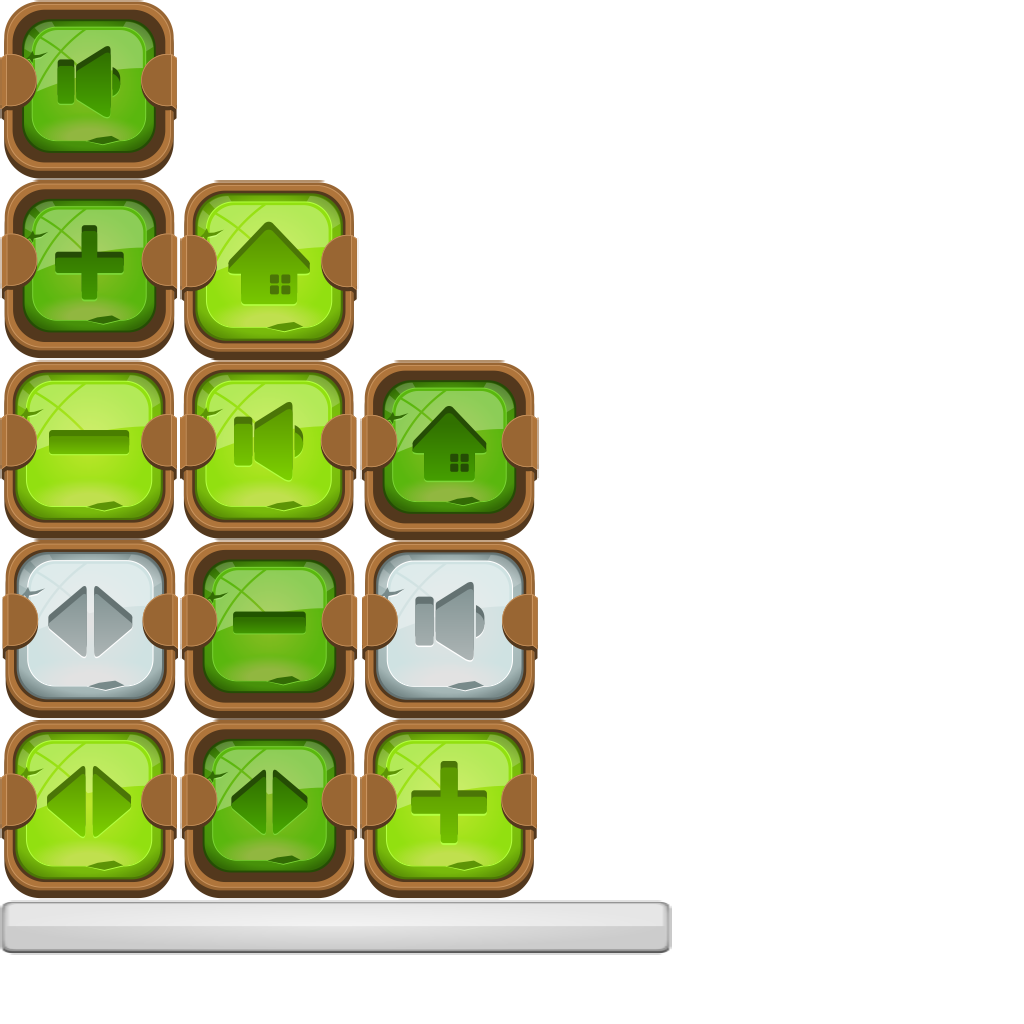
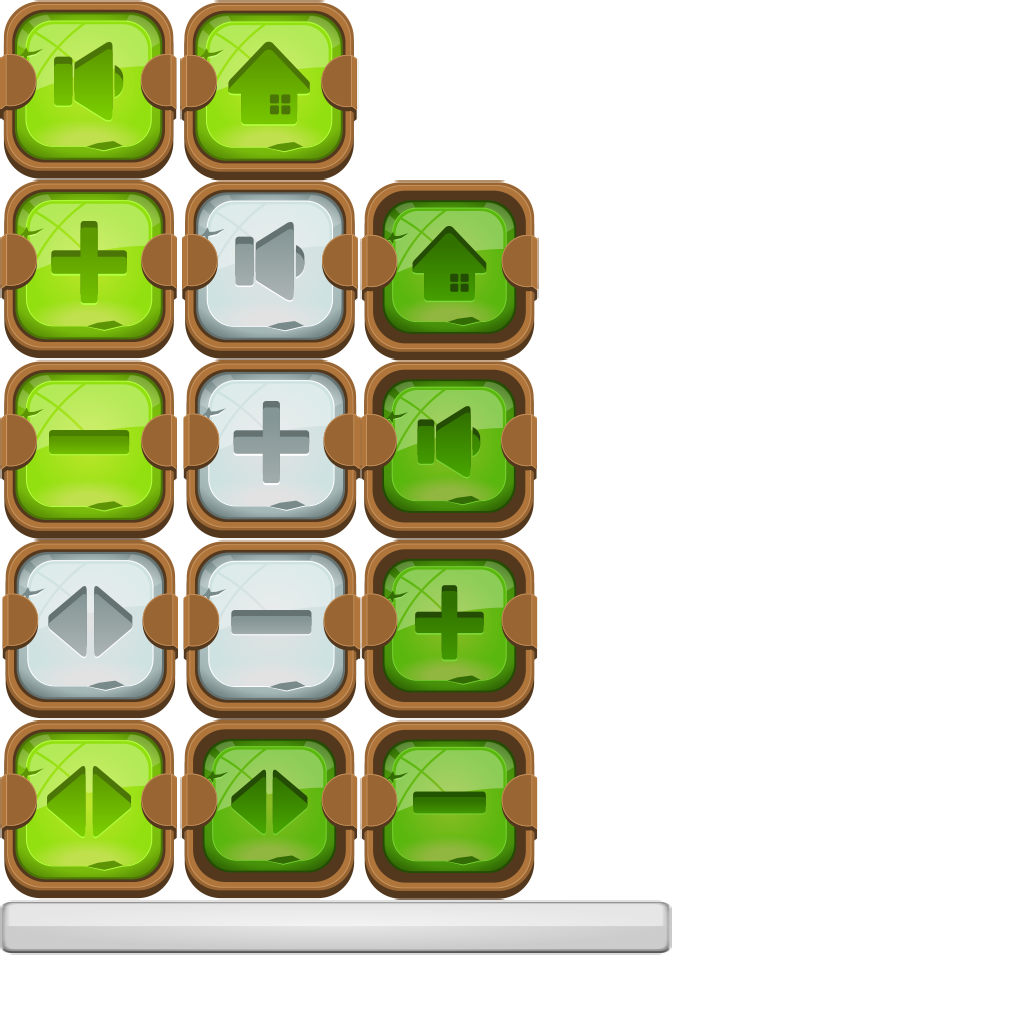
options menu enhaced

Changed region(s): [[0.0, 0.0, 0.5312, 0.875]]

diff --git a/BlockBoy/core/src/com/lpoo/blockboy/gui/OptionsScreen.java b/BlockBoy/core/src/com/lpoo/blockboy/gui/OptionsScreen.java
@@ -116,8 +116,8 @@ public class OptionsScreen implements Screen {
 
         homeBtn = new ImageButton(skin.getDrawable("homeBtn"),skin.getDrawable("homePressed"));
         volBtn = new ImageButton(skin.getDrawable("volBtn"),skin.getDrawable("volPressed"),skin.getDrawable("volCheck"));
-        plusBtn = new ImageButton(skin.getDrawable("plusBtn"),skin.getDrawable("plusPressed"));
-        minusBtn = new ImageButton(skin.getDrawable("minusBtn"),skin.getDrawable("minusPressed"));
+        plusBtn = new ImageButton(skin.getDrawable("plusBtn"),skin.getDrawable("plusPressed"),skin.getDrawable("plusCheck"));
+        minusBtn = new ImageButton(skin.getDrawable("minusBtn"),skin.getDrawable("minusPressed"),skin.getDrawable("minusCheck"));
 
         /*ProgressBar.ProgressBarStyle barStyle = new ProgressBar.ProgressBarStyle(skin.newDrawable("slider_bg", Color.DARK_GRAY), skin.getDrawable("knobBtn"));
         ProgressBar bar = new ProgressBar(0, 10, 1, false, barStyle);
@@ -125,17 +125,24 @@ public class OptionsScreen implements Screen {
         bar.setSize(290, bar.getPrefHeight());
         bar.setAnimateDuration(2);
         stage.addActor(bar);*/
-
-        Slider.SliderStyle sliderStyle = new Slider.SliderStyle(skin.getDrawable("slider_bg"),skin.getDrawable("knobBtn"));
-        sliderStyle.knobDown = skin.getDrawable("knobPressed");
-        sliderStyle.knobBefore = skin.newDrawable("slider_bg", Color.FOREST);
-        sliderStyle.knob.setMinHeight(60);
-        sliderStyle.knob.setMinWidth(60);
-        sliderStyle.knobDown.setMinHeight(65);
-        sliderStyle.knobDown.setMinWidth(65);
-        sliderStyle.background.setMinWidth(5*BlockBoy.VWIDTH/12 - volBtn.getWidth()/4);
-
-        volCtrl = new Slider(0,100,5,false,sliderStyle);
+        if (BlockBoy.mute) {
+            Slider.SliderStyle sliderStyle = new Slider.SliderStyle(skin.getDrawable("slider_bg"), skin.getDrawable("knobCheck"));
+            sliderStyle.knobBefore = skin.newDrawable("slider_bg", Color.LIGHT_GRAY);
+            sliderStyle.knob.setMinHeight(60);
+            sliderStyle.knob.setMinWidth(60);
+            sliderStyle.background.setMinWidth(5 * BlockBoy.VWIDTH / 12 - volBtn.getWidth() / 4);
+            volCtrl = new Slider(0,100,5,false,sliderStyle);
+        }else{
+            Slider.SliderStyle sliderStyle = new Slider.SliderStyle(skin.getDrawable("slider_bg"), skin.getDrawable("knobBtn"));
+            sliderStyle.knobDown = skin.getDrawable("knobPressed");
+            sliderStyle.knobBefore = skin.newDrawable("slider_bg", Color.FOREST);
+            sliderStyle.knob.setMinHeight(60);
+            sliderStyle.knob.setMinWidth(60);
+            sliderStyle.knobDown.setMinHeight(65);
+            sliderStyle.knobDown.setMinWidth(65);
+            sliderStyle.background.setMinWidth(5 * BlockBoy.VWIDTH / 12 - volBtn.getWidth() / 4);
+            volCtrl = new Slider(0,100,5,false,sliderStyle);
+        }
         volCtrl.setSize(4*BlockBoy.VWIDTH/12-30, 10);
         volCtrl.setPosition(6.5f*BlockBoy.VWIDTH/12-volCtrl.getWidth()/2+5, 3*BlockBoy.VHEIGHT/5-volCtrl.getHeight()/2);
         volCtrl.setValue(BlockBoy.volume);
@@ -152,6 +159,14 @@ public class OptionsScreen implements Screen {
 
         minusBtn.setSize(2*minusBtn.getWidth()/5,2*minusBtn.getHeight()/5);
         minusBtn.setPosition(4*BlockBoy.VWIDTH/12 - volBtn.getWidth()/2 + 10,3*BlockBoy.VHEIGHT/5 - volBtn.getHeight()/2);
+
+
+        volCtrl.setDisabled(BlockBoy.mute);
+        volBtn.setChecked(BlockBoy.mute);
+        plusBtn.setDisabled(BlockBoy.mute);
+        plusBtn.setChecked(BlockBoy.mute);
+        minusBtn.setDisabled(BlockBoy.mute);
+        minusBtn.setChecked(BlockBoy.mute);
 
         homeBtn.addListener(new InputListener(){
 
@@ -172,10 +187,9 @@ public class OptionsScreen implements Screen {
             }
 
             public void touchUp(InputEvent event, float x, float y, int pointer, int button){
-                if (BlockBoy.volume < 100) {
+                if (BlockBoy.volume < 100 && !BlockBoy.mute) {
                     BlockBoy.volume += 5;
                     volCtrl.setValue(BlockBoy.volume);
-                    Gdx.app.log("Debug: ", "" + BlockBoy.volume);
                 }
             }
         });
@@ -187,10 +201,9 @@ public class OptionsScreen implements Screen {
             }
 
             public void touchUp(InputEvent event, float x, float y, int pointer, int button){
-                if (BlockBoy.volume > 0) {
+                if (BlockBoy.volume > 0 && !BlockBoy.mute) {
                     BlockBoy.volume -= 5;
                     volCtrl.setValue(BlockBoy.volume);
-                    Gdx.app.log("Debug: ", "" + BlockBoy.volume);
                 }
             }
         });
@@ -203,8 +216,30 @@ public class OptionsScreen implements Screen {
 
             public void touchUp(InputEvent event, float x, float y, int pointer, int button){
                 BlockBoy.mute = !BlockBoy.mute;
-                Gdx.app.log("Debug: ", "" + BlockBoy.mute);
                 volCtrl.setDisabled(BlockBoy.mute);
+                plusBtn.setDisabled(BlockBoy.mute);
+                plusBtn.setChecked(BlockBoy.mute);
+                minusBtn.setDisabled(BlockBoy.mute);
+                minusBtn.setChecked(BlockBoy.mute);
+
+                if (BlockBoy.mute) {
+                    Slider.SliderStyle sliderStyle = new Slider.SliderStyle(skin.getDrawable("slider_bg"), skin.getDrawable("knobCheck"));
+                    sliderStyle.knobBefore = skin.newDrawable("slider_bg", Color.LIGHT_GRAY);
+                    sliderStyle.knob.setMinHeight(60);
+                    sliderStyle.knob.setMinWidth(60);
+                    sliderStyle.background.setMinWidth(5 * BlockBoy.VWIDTH / 12 - volBtn.getWidth() / 4);
+                    volCtrl.setStyle(sliderStyle);
+                }else{
+                    Slider.SliderStyle sliderStyle = new Slider.SliderStyle(skin.getDrawable("slider_bg"), skin.getDrawable("knobBtn"));
+                    sliderStyle.knobDown = skin.getDrawable("knobPressed");
+                    sliderStyle.knobBefore = skin.newDrawable("slider_bg", Color.FOREST);
+                    sliderStyle.knob.setMinHeight(60);
+                    sliderStyle.knob.setMinWidth(60);
+                    sliderStyle.knobDown.setMinHeight(65);
+                    sliderStyle.knobDown.setMinWidth(65);
+                    sliderStyle.background.setMinWidth(5 * BlockBoy.VWIDTH / 12 - volBtn.getWidth() / 4);
+                    volCtrl.setStyle(sliderStyle);
+                }
             }
         });
 
